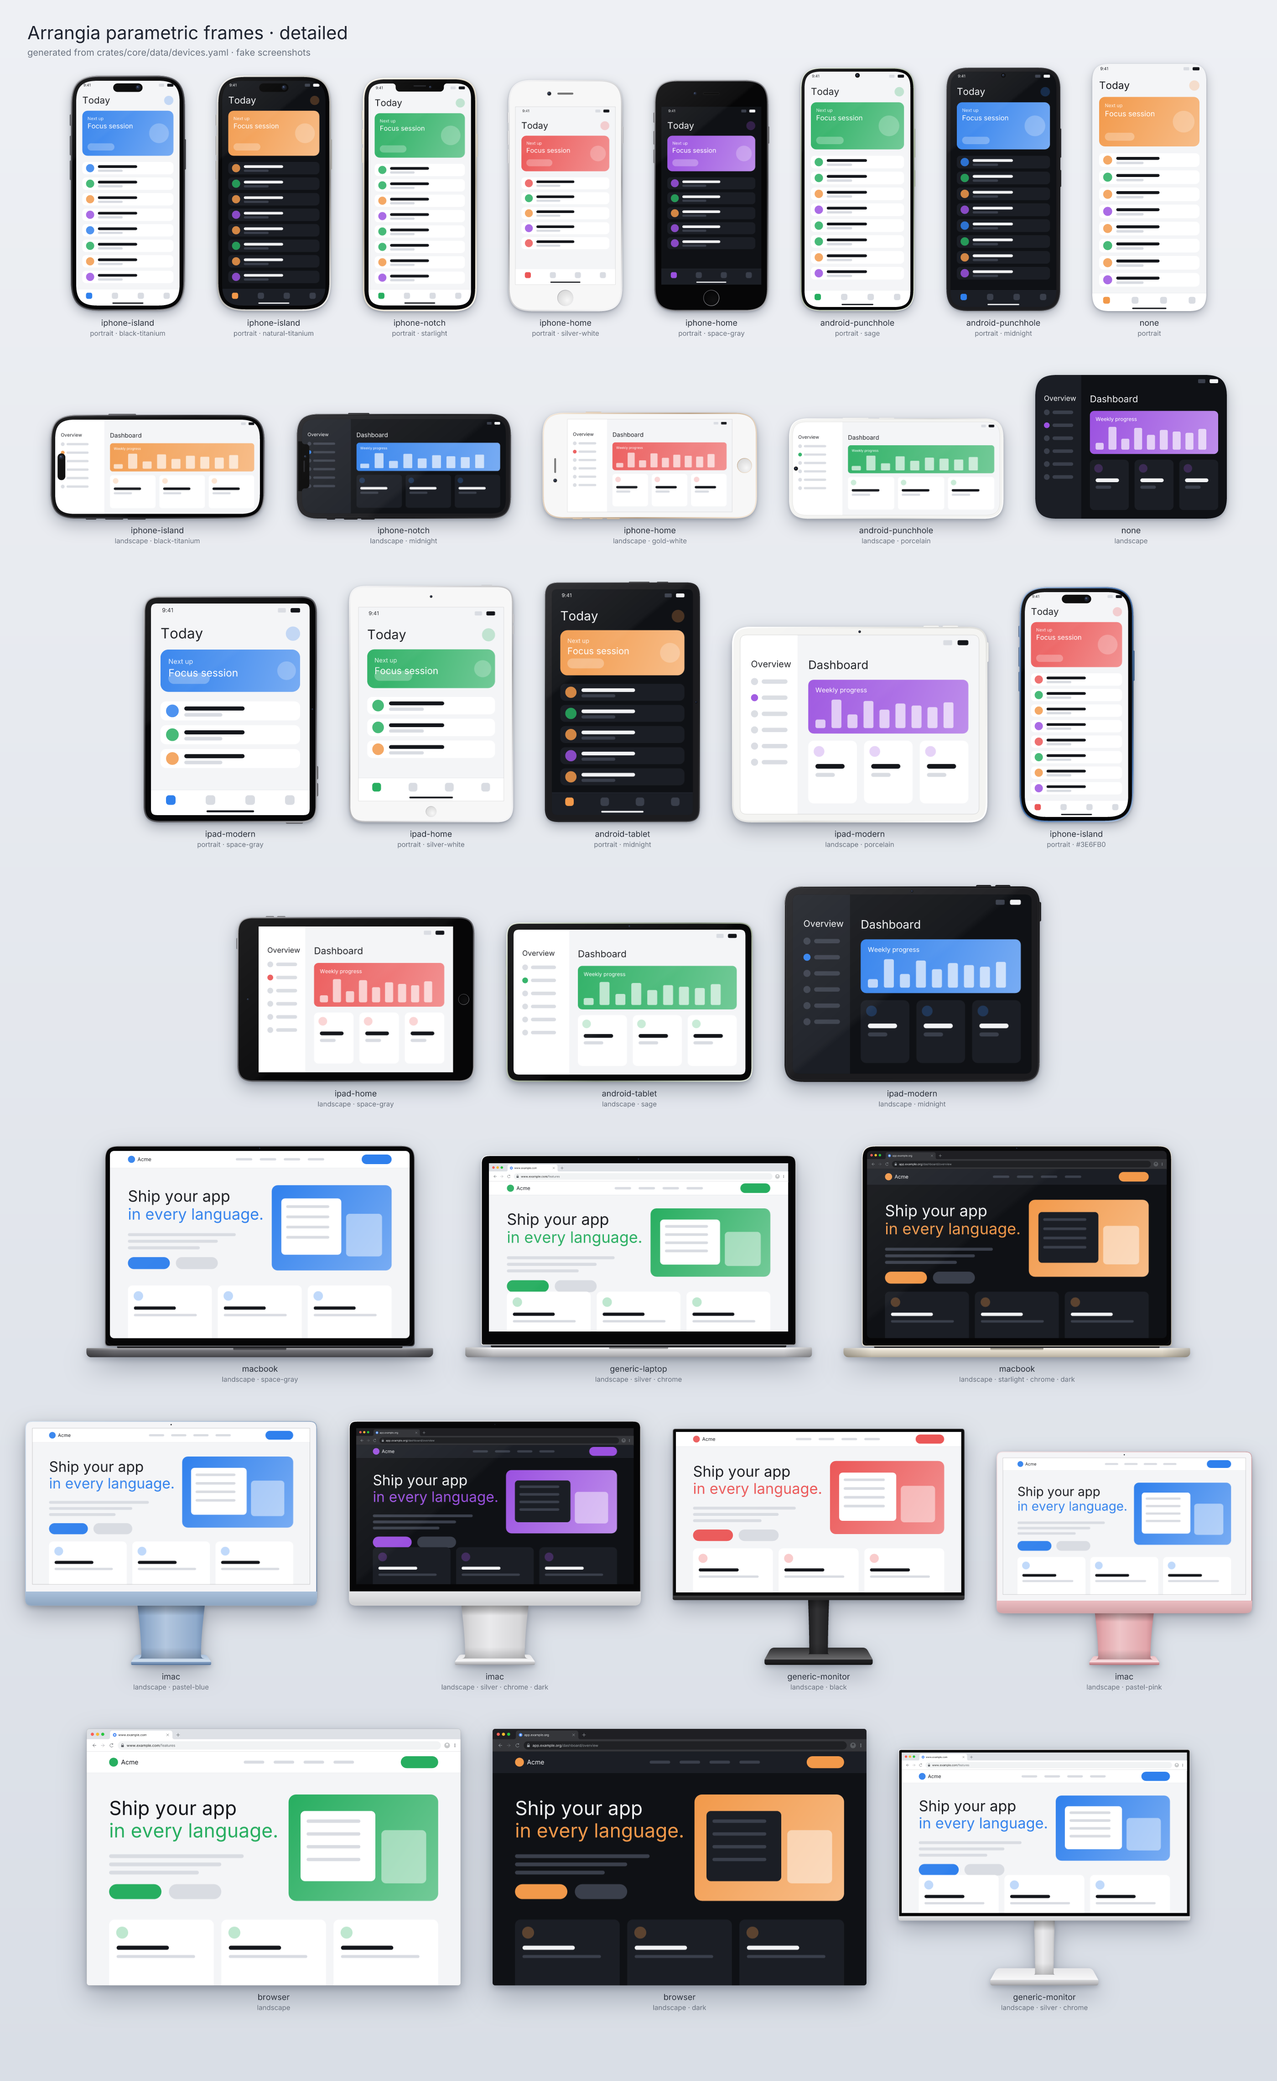
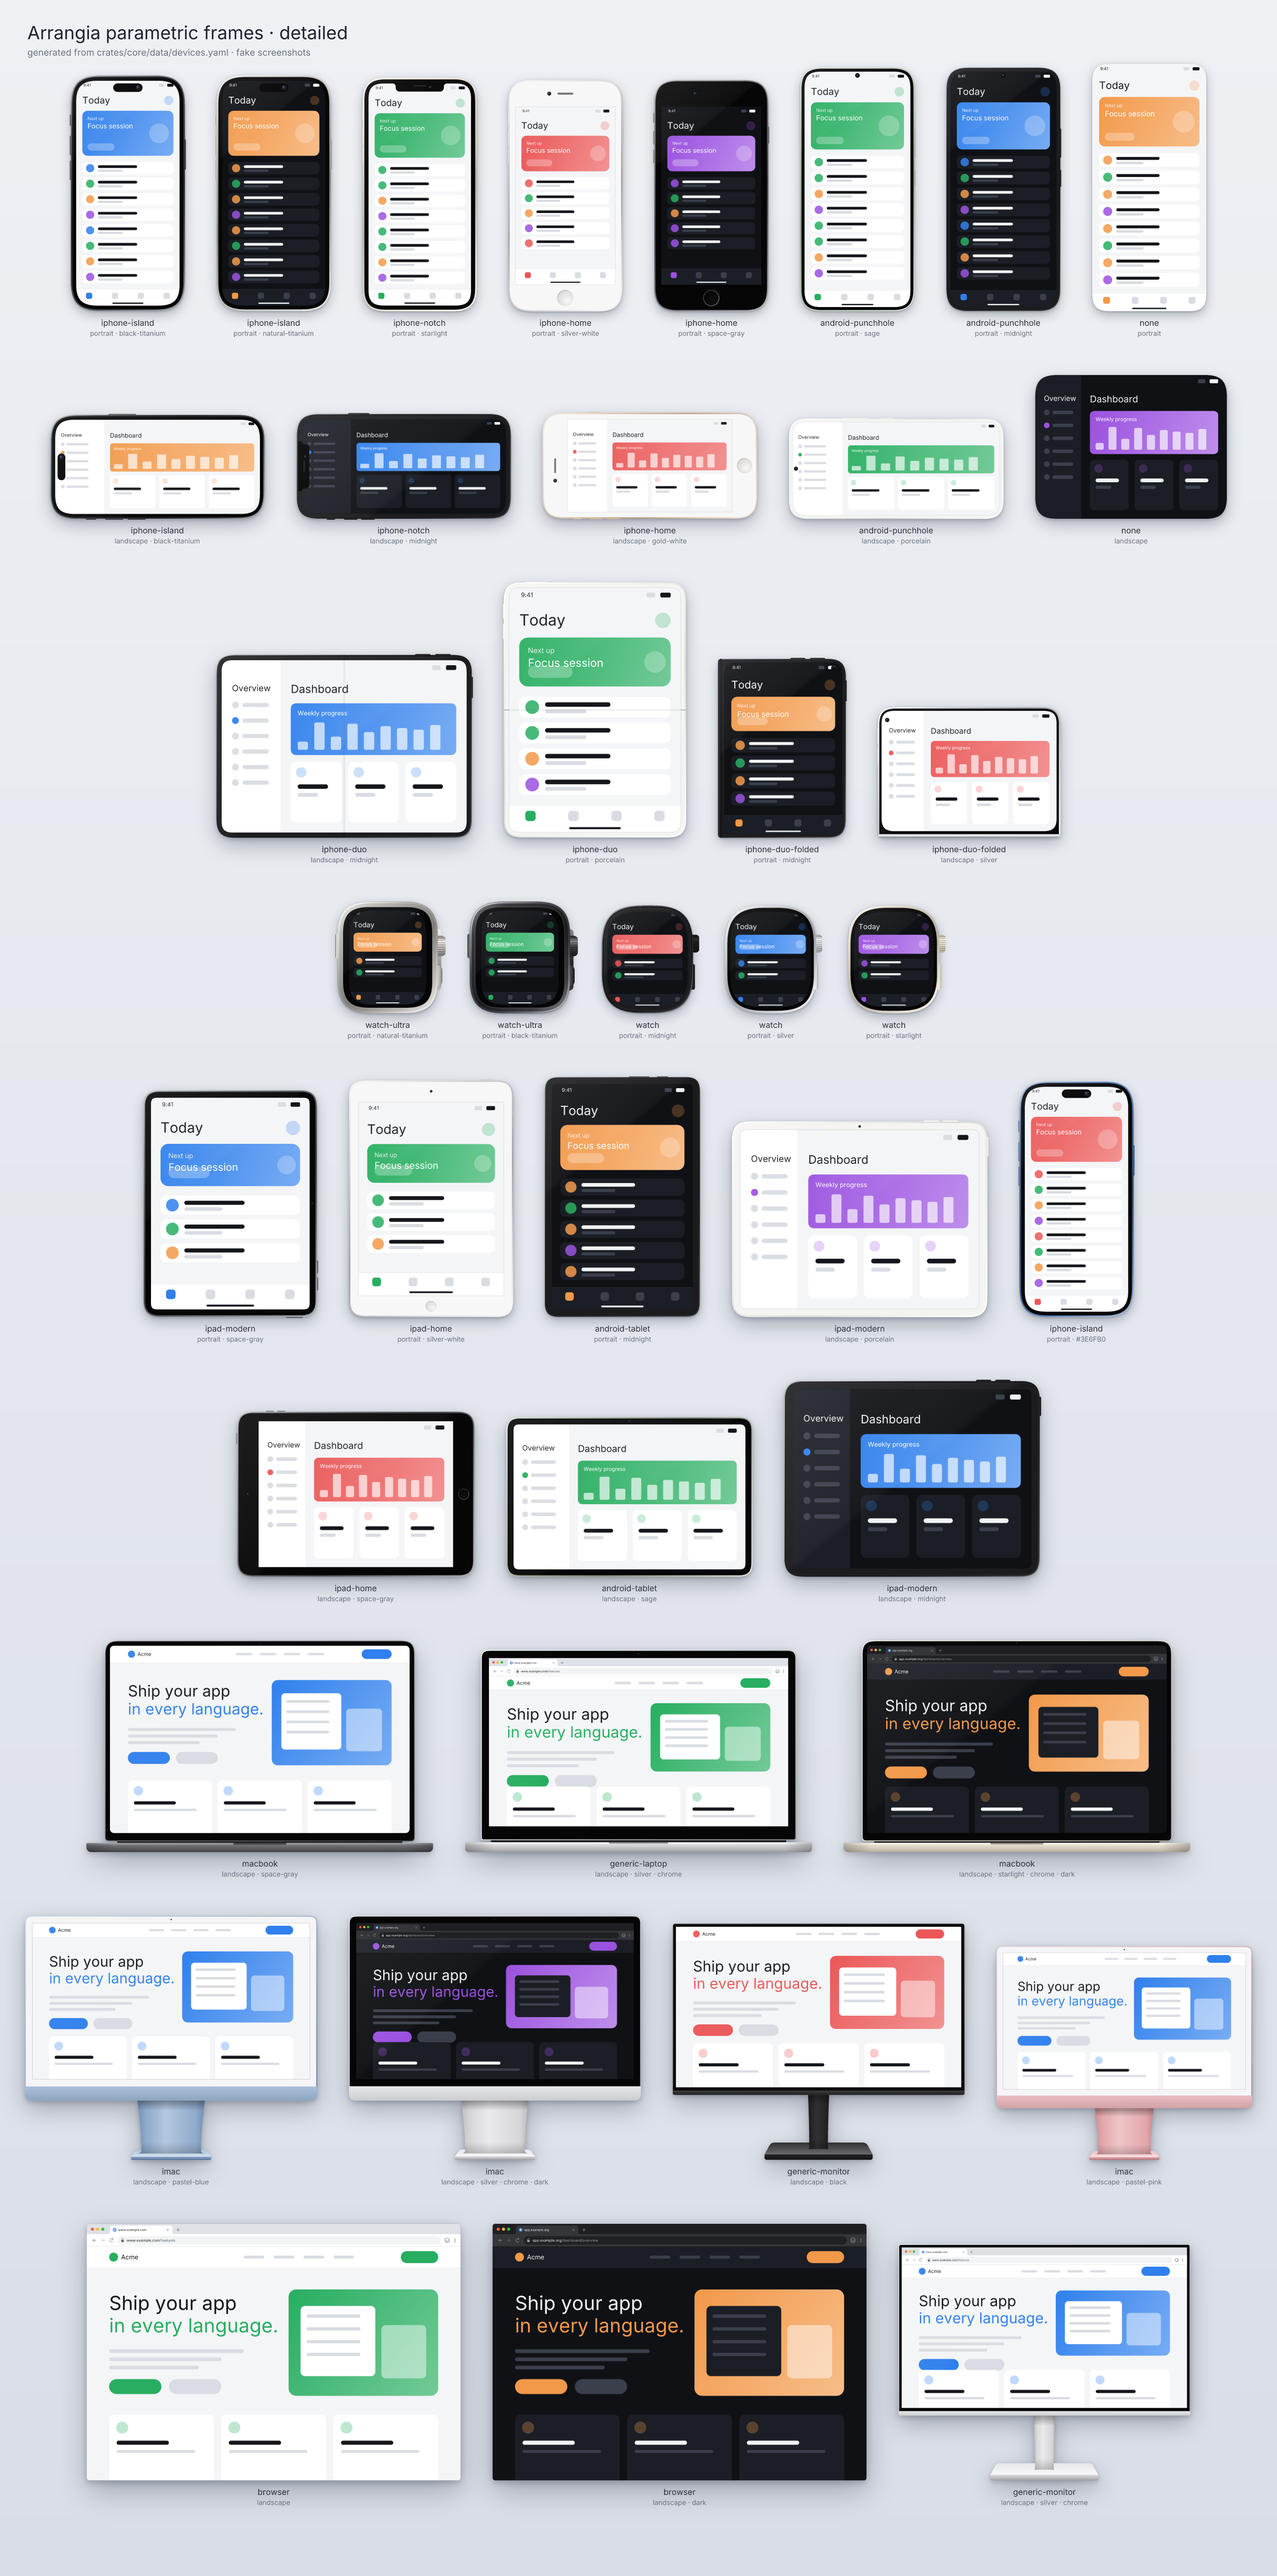
Docs: new Apple formats, contact sheets with Duo and watches

diff --git a/docs/guide/NOTES.md b/docs/guide/NOTES.md
@@ -41,7 +41,25 @@ points under the matching chapter. Keep entries short, concrete, with commands.
 - iPad 13" 2064×2752 / 2048×2732 → `APP_IPAD_PRO_3GEN_129` (required if the app runs on iPad).
 - Mac: 16:10 only (1280×800, 1440×900, 2560×1600, 2880×1800).
 - Google Play: long side ≤ 2× short side, 320–3840 px, 2–8 per device type, ≥ 4 at ≥ 1080 px for recommendations.
-- iPhone Duo exists in ASC behind a feature flag; sizes not public yet.
+- iPhone Duo (2026-11-10): outer 1398×2034 / 2034×1398, inner 2007×2853 / 2853×2007 (larger than the 1878×2670 panel, same aspect). Presets `ios-iphone-duo-outer` / `-inner`; upload only through the App Asset Library (display class `IPHONE_DUO`, not in the screenshot-set API). Required from April 2027 for apps built with the iOS 27.1 SDK.
+- Apple Watch: ONE watch size for all localizations is enough: `watch-ultra` 422×514 / 410×502, `watch-series` 416×496 (Series 10+), legacy `watch-series-7` 396×484, `watch-series-4` 368×448, `watch-series-3` 312×390.
+- Wear OS (`play-wear`): 1:1, 384–3840 px, app UI only (no frames, texts, backgrounds) → info `store_decorations` when a non-screenshot-only target has any.
+
+### Creative assets (App Store header / search results, iOS 27+)
+- Optional, one image per localization, rendered like a banner from a region of a strip: `ios-header` (21:9, 3840×1646 exact), `ios-search-results` (3:2, any size 1920×1280 … 3840×2560; default region pages 1–3, which is about 3:2 for portrait pages), `ios-creative-universal` (16:9 PNG 5244×2950, serves both placements; default region pages 1–4).
+- Store slot `{apple: {display_type: PRODUCT_PAGE_HEADER_ASSET|APP_STORE_SEARCH_RESULTS_ASSET, placement: header|search_results|universal}}`; uploaded only through the App Asset Library, never into a screenshot set.
+- Rules (Apple): short phrase that enhances the visual, localized; no prices, URLs, ©, unverifiable awards, other platforms, Apple awards; suitable for 4+.
+- Safe area: Apple defines it only in its design templates (Figma/Photoshop/Pixelmator/Sketch), no numbers published → presets have none. Set `safe_area: {top, right, bottom, left}` (insets in % of the image) on the target (Targets dialog → Safe area): the canvas shows it as a dashed rectangle per output image and validation warns `text_outside_safe_area`.
+
+### Watch and Wear OS: screenshot only
+- Target option `screenshot_only: true` (Targets dialog → "Screenshot only"; default for all watch presets and `play-wear`): every page exports the screenshot of its largest device alone, filling the image (square corners, no frame, background, text, shadow or rotation). Use the target's screenshot variant (`watch`, `wear`) so the watch captures are picked by key.
+- A page without a device stays empty (warning `screenshot_only_empty`).
+- Parametric watch frames `watch-ultra` (rugged, crown guard, action button) and `watch` (rounded, crown + side button) exist for marketing layouts; Apple draws its own watch mask in the store, so exports stay unframed.
+
+### Foldables (iPhone Duo)
+- Two catalog models, one per fold state: `iphone-duo` (open, inner display, landscape natural: the hinge is vertical; portrait = rotated, hinge horizontal) and `iphone-duo-folded` (closed, outer display, portrait natural, hinge spine on the left, punch-hole camera top right – position approximated).
+- Device field `fold: open|folded` (inspector → Fold) switches between them; it also works after `device_map` (map a phone to `iphone-duo` and fold it per element).
+- Drawing: faint crease line over the inner display and hinge seams in the bezel; the inner camera is under the display and not drawn.
 
 ### Screenshots import
 - Supports Arrangia folder layout, fastlane snapshot output (`de-DE/iPhone 17 Pro Max-01_home.png`), flat folders.
@@ -70,6 +88,8 @@ points under the matching chapter. Keep entries short, concrete, with commands.
 - iPhone 18 package (verified 2026-11-10): models Pro and Pro Max; colours Black, Burgundy, Glacier, Silver; screen exactly 1320×2868 (Pro Max) / 1206×2622 (Pro).
 - Frames are stored app-wide (app data dir), never in the project; projects only say `frame: imported:apple`. Missing on another machine → parametric frame + info.
 - CLI: `arrangia frames import <path> [--dry-run -v]`, `frames list`, `frames remove`.
+- iPhone Duo package `Bezel-iPhone-Duo.dmg` (verified 2026-11-10): `iPhone Duo - <Night Sky|Star White> - <Inner Open|Outer Closed> <Portrait|Landscape>.png` → `iphone-duo` (open, screen 2007×2853) / `iphone-duo-folded` (closed, 1398×2034). `… - Outer Open.png` (back + outer display, open flat) is skipped as a marketing composite (listed as ignored with the reason; rule files support `skip:` patterns).
+- Apple Watch Ultra package `Bezel-Apple-Watch-Ultra-4-2026.dmg` (verified 2026-11-10): `AW Ultra 4 - <Case> + <Band>.png` (620×940, case with band, screen 422×514) → `watch-ultra`; the colour key is case + band (`natural-trail-loop-sand`), so all six combinations are installed side by side. `AW Series <n> - …` → `watch` is a guess (unverified).
 - Both Pro and Pro Max bezels are kept; the bezel is picked per target size (else screenshot size), or pinned per device ("Bezel" in the inspector: "Auto · 18 Pro Max").
 - Use them for the whole project: Project settings → General → Frame style → "Apple (imported)" (`styles.frame: imported:apple`); a hint shows when no Apple frames are installed. Per device: inspector → Frame.
 - Colours come from the package (Black, Burgundy, Glacier, Silver for iPhone 18), not from Arrangia's palette. With an Apple frame the inspector shows only the installed colours, as swatches in the real housing colour (measured from each bezel at import: outer metal rim, black glass border excluded; stored as `swatch` in the store's `index.yaml`, filled in for older imports the first time the frame list is shown).

diff --git a/docs/plan/STATUS.md b/docs/plan/STATUS.md
@@ -26,6 +26,8 @@ current: update after each phase/merge and whenever the user decides something.
   - Done: store setup UX (2026-11-10 user requests): help panels for creating the Apple key / Google service account (app settings → Stores + import dialog, links via allow-listed `open_url`), upload dialog setup checklist (`upload_readiness` / `plan.readiness`, buttons to app settings / project settings / targets, MCP hints), App Store app picker (`store_apps_list`, `apple::Client::list_apps`), Google package "Check" (`store_package_check`, temporary edit deleted again – Play has no app list). Not yet looked at in the real app.
   - Done: fixes from the first real Apple upload (2026-11-10, ADR 0018 amendment b): processing model (upload all images of a set, then poll together for up to 15 min; still processing = `uploaded_processing`, not a failure; reuse of images already in the set by checksum), watchdog + `interrupted` recovery, real event times, per-image GUI/CLI steps, "Check processing"; "no editable App Store version" short, once per store, with link.
   - Next: user re-runs the real upload (new build; see the report for how to resume); then Google; user looks at the Upload dialog and the store settings; then decide (a)/(b) for good.
+- Catalog: new Apple formats (2026-11-10, worktree `agent-devices`): App Store creative assets (`ios-header` 21:9, `ios-search-results` 3:2, `ios-creative-universal` 16:9; banner presets with slot `placement: header|search_results|universal`, rules `apple-creative-*`), optional target `safe_area` (dashed canvas overlay, warning `text_outside_safe_area`; Apple's values unpublished → presets have none), Apple Watch (`watch-ultra`, `watch` parametric frames with crown/guard; presets `watch-ultra`, `watch-series`, `watch-series-7/-4/-3`), Wear OS `play-wear` (rules `decorations: false` → info `store_decorations`), target option `screenshot_only` (watch/Wear default), iPhone Duo frames (`iphone-duo` open / `iphone-duo-folded`, element field `fold`), Apple import rules for the real Duo and Watch Ultra 4 packages (verified with the user's DMGs, `skip:` rule for `Outer Open`).
+  - For the upload agent: creative slots (`placement` set) and `APP_IPHONE_DUO` must go through the App Asset Library; the set-based plan must skip/block them.
 - Next phases per KONZEPT §12: 6 polish/website, 7 3D.
 
 ## Open questions for the user
@@ -72,7 +74,7 @@ current: update after each phase/merge and whenever the user decides something.
 - Apple bezel package `Bezel-iPhone-18.dmg` (user test 2026-11-10): file names `iPhone 18 Pro[ Max] - <Colour> - <Portrait|Landscape>.png`, + PSDs + License.rtf, DMG has an SLA.
 
 ## Backlog for later versions (noted, not scheduled)
-- 2026-11-10 (user): more devices – **iPhone Duo** (two screens; ASC display type `IPHONE_DUO` behind a feature flag, sizes not public yet; required from April 2027 for iOS 27.1 SDK apps) and **Apple Watch** (ASC types `APP_WATCH_ULTRA` 410×502/422×514, `SERIES_10` 416×496, `SERIES_7` 396×484, `SERIES_4` 368×448, `SERIES_3` 312×390; Play Wear OS 1:1 ≥ 384×384, no frames allowed). Needs: catalog entries + new frame shapes (dual screen / watch with crown & band) in both styles, target presets, Apple bezel import rules for Watch/Duo packages. How-to: `docs/dev/adding-devices.md`.
+- ~~2026-11-10 (user): more devices – iPhone Duo and Apple Watch~~ → done 2026-11-10 (see Current state, "Catalog: new Apple formats"). Still open: watch band stubs in the parametric frames (optional, not drawn), Apple Watch Series package names (rule `AW Series …` is a guess), Apple's creative-asset safe area numbers (measure from the templates).
 
 ## Known open items (cross-phase)
 - Native store app gallery gaps not measured (only web CSS).

diff --git a/docs/dev/adding-devices.md b/docs/dev/adding-devices.md
@@ -10,8 +10,13 @@ hand to Claude Code for it.
   `orientations`, `body {w,h,radius}`, `rim`, `display {x,y,w,h,radius}`,
   `cutouts` (island / notch / punch_hole over the screen; home_button / camera /
   speaker in the bezel), `buttons {edge, at, length, depth}`, `laptop` (hinge +
-  base), `stand` (neck + foot), `browser`, `colors` (names from the shared
+  base), `stand` (neck + foot), `browser`, `hinge {at: center|left, w}` and
+  `fold {state: open|folded, other}` (foldables: one model per fold state,
+  linked both ways, same colours), `colors` (names from the shared
   palette), `default_color`, `screenshot {aspect|free, variant, sizes, targets}`.
+  Buttons take `style: plain|crown|guard` (watch crown, crown guard).
+  Classes: phone, tablet, watch (drawn by `handheld.rs`), laptop, desktop,
+  browser, none.
 - **Drawing:** `crates/render/src/frames/` turns that data into vector paths
   (tiny-skia) at render time, in two styles: `stylized` (flat) and `detailed`
   (rim gradients, gloss, lens details). Main entry points:
@@ -21,8 +26,9 @@ hand to Claude Code for it.
   `shapes.rs`, `screen.rs`, `palette.rs`, `layout.rs`.
 - Only ratios matter (numbers are in a model unit such as mm); the renderer
   scales the outer width to the element's `width` in lu.
-- Landscape = the portrait-natural geometry rotated 90° counter-clockwise;
-  the screenshot itself is never rotated.
+- The other orientation = the natural geometry rotated 90° counter-clockwise
+  (portrait phone → landscape; the landscape-natural open foldable →
+  portrait); the screenshot itself is never rotated.
 
 ## Two kinds of additions
 1. **Data only** – a new model of an existing class whose shape the drawing
@@ -30,8 +36,8 @@ hand to Claude Code for it.
    different bezels, a laptop with other proportions). Only `devices.yaml`
    (+ colours, + `targets.yaml` cross-references) changes.
 2. **New shape/class** – something the drawing code can't express yet (e.g. a
-   foldable / "iPhone Duo" with two screens, a watch with a crown, a TV, a
-   phone with a camera bar in the screen). Needs catalog schema additions
+   TV, a phone with a camera bar in the screen; foldables and watches with
+   crowns exist since 2026-11-10: `iphone-duo`, `watch-ultra`, `watch`). Needs catalog schema additions
    (`catalog/devices.rs`, validation in `Catalog::check()`) and drawing code in
    `frames/`, plus tests.
 

diff --git a/docs/plan/phase-5.md b/docs/plan/phase-5.md
@@ -57,6 +57,13 @@ replaces it) – open question in ADR 0017.
       events, idempotent deletes); resume + upload log belong to 5.5
 - [ ] Optional: App Asset Library backend (`appAssetLibraryImages` +
       placements + ordering requests; needed for `IPHONE_DUO`)
+      – catalog side ready 2026-11-10: creative-asset presets (`ios-header`,
+      `ios-search-results`, `ios-creative-universal`, slot `placement:
+      header|search_results|universal`, display_type = placement type
+      `PRODUCT_PAGE_HEADER_ASSET` / `APP_STORE_SEARCH_RESULTS_ASSET`), Duo
+      presets with devices; watch presets (`APP_WATCH_*`) and Wear OS
+      (`wearScreenshots`) export `screenshot_only`. The set-based flow
+      must not send `placement` slots or `APP_IPHONE_DUO`.
 
 ## 5.4 Google Play client
 Client part done 2026-11-10 (`arrangia_publish::google`, ADR 0017).
